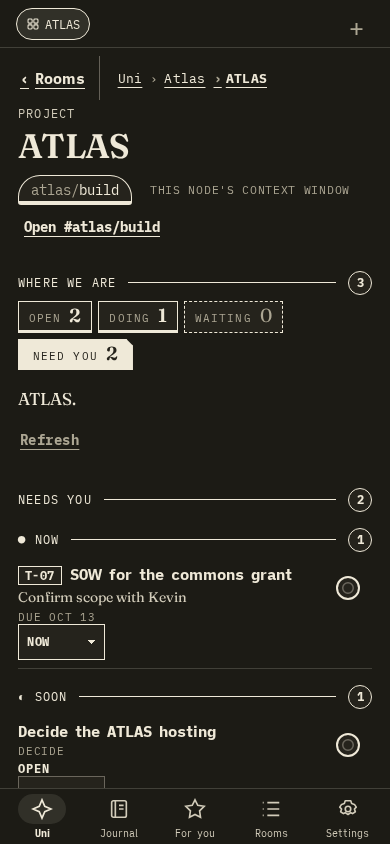
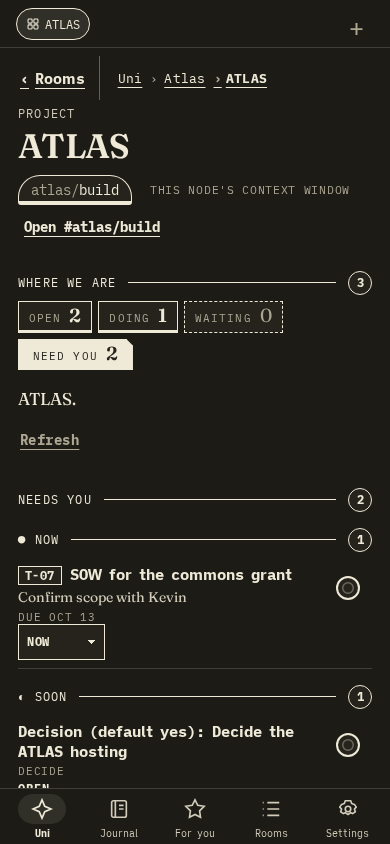
needs-you says the real ask (2 lines), All-of link sticks and stays on one line, teaching's needs from owner/waiting_on, one channel in the header, tooltips on the quiet marks (T-124 r4)

Changed region(s): [[0.0308, 0.8626, 0.7692, 0.9242]]

diff --git a/src/areas/Companion.tsx b/src/areas/Companion.tsx
@@ -4,7 +4,7 @@
 import { useEffect, useState } from "react";
 import { cleanText } from "../interface/contract";
 import { dueText } from "./NodeWork";
-import { activeProfile } from "./profile";
+import { isMe } from "./taskCore";
 import type { Run } from "./steerCore";
 import type { Task } from "./taskCore";
 import { splitTitle } from "./whereCore";
@@ -42,10 +42,13 @@ const URL_RE = /https?:\/\/\S+|\bwww\.\S+/g;
 export const plainDetail = (s: string): string => s.replace(URL_RE, "").replace(/\s+/g, " ").replace(/\s*[·,;:(\[-]+\s*$/, "").replace(/\(\s*\)/g, "").trim();
 type Fold = { open: boolean; onToggle: (v: boolean) => void };
 
+/** The ask itself: the "Decision (default yes):" style label a decision's title carries is left to the opened item. */
+export const askOf = (rest: string): string => { const t = plainDetail(rest) || rest; return t.replace(/^decision\s*(\([^)]*\))?\s*[:\-–—]\s*/i, "").trim() || t; };
+
 /** What Aaron does with it: a decision is decided, a task waiting on him says so, else its next step. */
 function actionOf(t: Task): string | null {
   if (t.kind === "decision") return null;
-  if (t.waitingOn === activeProfile().me) return t.next ? `Waiting on you · ${t.next}` : "Waiting on you";
+  if (isMe(t.waitingOn)) return t.next ? `Waiting on you · ${t.next}` : "Waiting on you";
   return t.next || null;
 }
 
@@ -56,13 +59,14 @@ function Body({ stands, ready, needs, runs, nodeName, onTask, onDecide, onEveryt
     {needs.length > 0 && <section aria-label="Needs you" className="cp-sec">
       <h3 className="cp-h">Needs you</h3>
       <ul className="cp-list">{needs.map((t) => {
-        const { id, rest } = splitTitle(cleanText(t.title));
+        const { id, rest: full } = splitTitle(cleanText(t.title));
+        const rest = askOf(full);
         const meta = plainDetail([actionOf(t), dueText(t.due)].filter(Boolean).join(" · "));
         const opts = t.kind === "decision" ? t.options : [];
         return <li key={t.id} className="cp-item">
           <button type="button" className="cp-need" data-id={id ?? undefined} onClick={() => onTask(t)}>
-            <span className="cp-title">{plainDetail(rest) || rest}</span>{meta && <small className="cp-detail">{meta}</small>}</button>
-          {t.kind === "decision" && <div className="cp-opts" role="group" aria-label={`Decide: ${plainDetail(rest) || rest}`}>
+            <span className="cp-title">{rest}</span>{meta && <small className="cp-detail">{meta}</small>}</button>
+          {t.kind === "decision" && <div className="cp-opts" role="group" aria-label={`Decide: ${rest}`}>
             {opts.slice(0, OPTS_SHOWN).map((o) => <button key={o} type="button" className="cp-opt" onClick={() => onDecide(t, o)}>{cleanText(o)}</button>)}
             {(opts.length > OPTS_SHOWN || opts.length === 0) && <button type="button" className="cp-opt more" onClick={() => onTask(t)}>{opts.length === 0 ? "Decide" : "More…"}</button>}
           </div>}
@@ -73,7 +77,7 @@ function Body({ stands, ready, needs, runs, nodeName, onTask, onDecide, onEveryt
       <h3 className="cp-h">Running</h3>
       <ul className="cp-list">{active.map((r) => <li key={r.id} className="cp-run" data-state={r.state}><i aria-hidden="true" /><span>{cleanText(r.what)}</span><small>{r.state}</small></li>)}</ul>
     </section>}
-    <button type="button" className="cp-all" onClick={onEverything}>All of {nodeName}'s work <span aria-hidden="true">→</span></button>
+    <div className="cp-foot"><button type="button" className="cp-all" onClick={onEverything}><span className="cp-all-t">All of {nodeName}'s work</span><span className="cp-all-arrow" aria-hidden="true">→</span></button></div>
   </div>;
 }
 
@@ -82,11 +86,11 @@ export function CompanionSide({ open, onToggle, ...p }: Props & Fold) {
   return <aside className={`cp side ${open ? "open" : "folded"}`} aria-label="Where this stands">
     {open
       ? <>
-        <button type="button" className="cp-top" aria-expanded="true" aria-label="Hide where this stands" onClick={() => onToggle(false)}><span>Where this stands</span><span className="cp-fold" aria-hidden="true">›</span></button>
+        <button type="button" className="cp-top" aria-expanded="true" aria-label="Hide where this stands" title="Hide where this stands" onClick={() => onToggle(false)}><span>Where this stands</span><span className="cp-fold" aria-hidden="true">›</span></button>
         <Body {...p} />
       </>
-      : <button type="button" className="cp-unfold" aria-expanded="false" aria-label="Show where this stands" onClick={() => onToggle(true)}>
-        <span aria-hidden="true">‹</span>{p.needs.length > 0 && <i className="cp-dot" aria-label="Needs you" />}</button>}
+      : <button type="button" className="cp-unfold" aria-expanded="false" aria-label="Show where this stands" title="Show where this stands" onClick={() => onToggle(true)}>
+        <span aria-hidden="true">‹</span>{p.needs.length > 0 && <i className="cp-dot" role="img" aria-label="Needs you" title="Needs you" />}</button>}
   </aside>;
 }
 
@@ -95,7 +99,7 @@ export function CompanionStrip({ open, onToggle, ...p }: Props & Fold) {
   return <section className={`cp strip ${open ? "open" : ""}`} aria-label="Where this stands">
     <button type="button" className="cp-line" aria-expanded={open} onClick={() => onToggle(!open)}>
       <span className="cp-line-text">{open ? "Where this stands" : p.ready ? p.stands?.text ?? "Where this stands" : "Loading…"}</span>
-      {p.needs.length > 0 && <i className="cp-dot" aria-label="Needs you" />}
+      {p.needs.length > 0 && <i className="cp-dot" role="img" aria-label="Needs you" title="Needs you" />}
       <span className="cp-chev" aria-hidden="true">{open ? "⌃" : "⌄"}</span>
     </button>
     {open && <Body {...p} />}

diff --git a/scripts/browser/simple.spec.ts b/scripts/browser/simple.spec.ts
@@ -154,11 +154,14 @@ test.describe('simple', () => {
     const items = page.locator('.cp-body .cp-item');
     await expect(items).toHaveCount(3);
     await expect(page.locator('.cp-body')).not.toContainText(/https?:\/\//);
-    for (const sel of ['.cp-title', '.cp-detail']) for (const el of await page.locator(`.cp-body ${sel}`).all()) {
+    for (const el of await page.locator('.cp-body .cp-title').all()) expect(await el.evaluate((e) => e.getBoundingClientRect().height < 48)).toBeTruthy();
+    for (const el of await page.locator('.cp-body .cp-detail').all()) {
       expect(await el.evaluate((e) => getComputedStyle(e).whiteSpace === 'nowrap' && e.getBoundingClientRect().height < 24)).toBeTruthy();
     }
-    const all = await page.getByRole('button', { name: /^All of .*'s work/ }).boundingBox();
+    const link = page.getByRole('button', { name: /^All of .*'s work/ });
+    const all = await link.boundingBox();
     expect(all!.y + all!.height).toBeLessThanOrEqual(720);
+    expect(all!.height).toBeLessThan(48);
     await page.screenshot({ path: `${SHOTS}/fold-1280x720.png` }).catch(() => {});
   });
 
@@ -167,9 +170,61 @@ test.describe('simple', () => {
     await openRoom(page, 'ATLAS');
     await openCompanion(page);
     const item = page.locator('.cp-item').filter({ hasText: 'Decide the ATLAS hosting' });
-    await expect(item.locator('.cp-title')).toHaveCSS('white-space', 'nowrap');
+    await expect(item.locator('.cp-title')).toHaveText('Decide the ATLAS hosting');
+    expect(await item.locator('.cp-title').evaluate((e) => parseInt(getComputedStyle(e).webkitLineClamp || getComputedStyle(e).getPropertyValue('line-clamp') || '0'))).toBe(2);
     await expect(item.locator('.cp-opt')).toHaveText(['Self-host', 'Managed']);
     for (const b of await item.locator('.cp-opt').all()) expect(await b.evaluate((e) => getComputedStyle(e).backgroundColor)).not.toBe('rgba(0, 0, 0, 0)');
+  });
+
+  test('the "All of X\'s work" link sticks to the panel bottom, on one line, even when the panel is long and the name is long', async ({ page }) => {
+    test.skip(!wide(page), 'side panel');
+    await page.setViewportSize({ width: 1280, height: 600 });
+    await boot(page);
+    await scope(page).locator('.th-go[aria-label^="Uni,"]').click();
+    await openCompanion(page);
+    const foot = page.locator('.cp-all');
+    const side = (await page.locator('.cp.side').boundingBox())!;
+    const box = (await foot.boundingBox())!;
+    expect(box.y + box.height).toBeLessThanOrEqual(side.y + side.height + 1);
+    expect(box.height).toBeLessThan(48);
+    await page.locator('.cp-all-t').evaluate((e) => { e.textContent = "All of A very long project name that cannot possibly fit on a single line's work"; });
+    const after = (await foot.boundingBox())!;
+    expect(after.height).toBeLessThan(48);
+    expect(await page.locator('.cp-all-arrow').isVisible()).toBe(true);
+    const arrow = (await page.locator('.cp-all-arrow').boundingBox())!;
+    expect(arrow.x + arrow.width).toBeLessThanOrEqual(side.x + side.width);
+  });
+
+  test('the quiet marks say what they are', async ({ page }) => {
+    await boot(page);
+    await openRoom(page, 'ATLAS');
+    if (wide(page)) {
+      await expect(page.getByRole('button', { name: 'Hide where this stands' })).toHaveAttribute('title', 'Hide where this stands');
+      await page.getByRole('button', { name: 'Hide where this stands' }).click();
+      await expect(page.getByRole('button', { name: 'Show where this stands' })).toHaveAttribute('title', 'Show where this stands');
+      await expect(page.locator('.cp-unfold .cp-dot')).toHaveAttribute('title', 'Needs you');
+    } else await expect(page.locator('.cp-line .cp-dot')).toHaveAttribute('title', 'Needs you');
+    if (wide(page)) await expect(scope(page).locator('.th-dot').first()).toHaveAttribute('title', 'Needs you');
+  });
+
+  test('a decision titled "Decision (default yes): …" shows only the ask; the opened item keeps the full title', async ({ page }) => {
+    await boot(page);
+    await openRoom(page, 'ATLAS');
+    await openCompanion(page);
+    await expect(page.locator('.cp-body')).not.toContainText(/Decision \(/);
+    await page.locator('.cp-item').filter({ hasText: 'Decide the ATLAS hosting' }).locator('.cp-need').click();
+    await expect(page.getByRole('dialog').or(page.locator('.sheet, .task-sheet')).first()).toContainText('Decision (default yes)');
+  });
+
+  test('teaching lists what waits on the user: a room task waiting on them, and their own; not what waits on someone else', async ({ page }) => {
+    await boot(page);
+    await openRoom(page, 'Learn Vibe Build');
+    await openCompanion(page);
+    const needs = page.getByRole('region', { name: 'Needs you' });
+    await expect(needs.locator('.cp-item')).toHaveCount(2);
+    await expect(needs).toContainText('Canvas Week 7 brief draft');
+    await expect(needs).toContainText('Grade the Week 6 reflections');
+    await expect(needs).not.toContainText('Final brief');
   });
 
   test('the "where this stands" row folds and unfolds the panel', async ({ page }) => {
@@ -201,7 +256,7 @@ test.describe('simple', () => {
 
   test('a room with nothing owed to the user shows no empty "Needs you" heading', async ({ page }) => {
     await boot(page);
-    await openRoom(page, 'Learn Vibe Build');
+    await openRoom(page, 'Atlas Institute');
     await openCompanion(page);
     await expect(page.locator('.cp-h', { hasText: 'Needs you' })).toHaveCount(0);
     await expect(page.locator('.cp-sec')).not.toHaveCount(-1);

diff --git a/src/areas/tree.css b/src/areas/tree.css
@@ -343,7 +343,9 @@ h3.wr-h { font-weight: 400; }
 .sr-titles { min-width: 0; display: flex; flex-direction: column; gap: 1px; }
 .sr-title { margin: 0; font: 600 26px/1.15 var(--th-serif); letter-spacing: -.015em; color: var(--text); overflow: hidden; text-overflow: ellipsis; white-space: nowrap; }
 .th-simple.phone .sr-title { font-size: 22px; }
-.sr-door { margin: 0; font: 400 13px/1.3 var(--th-sans); color: var(--th-mute); }
+.sr-meta { min-width: 0; display: flex; align-items: center; gap: 10px; min-height: 24px; }
+.sr-door { flex: none; margin: 0; font: 400 12.5px/1.3 var(--th-sans); color: var(--th-mute); }
+.sr-meta .th-crumbs + .sr-door::before { content: "·"; margin-right: 10px; }
 .sr-back { all: unset; box-sizing: border-box; flex: none; width: 44px; height: 44px; display: grid; place-items: center; font: 400 30px/1 var(--th-sans); cursor: pointer; color: var(--th-ink); }
 .sr-back:focus-visible { outline: 2px solid var(--th-ink); outline-offset: -4px; }
 .sr .th-crumbs { font: 400 12.5px var(--th-sans); letter-spacing: 0; color: var(--th-mute); }
@@ -358,8 +360,8 @@ h3.wr-h { font-weight: 400; }
 
 /* the companion */
 .cp { color: var(--th-ink); font-family: var(--th-sans); }
-.cp.side { min-width: 0; min-height: 0; overflow-y: auto; overscroll-behavior: contain; border-left: 1px solid var(--th-hair2); background: var(--th-paper); padding: 0 18px 40px; scroll-padding-bottom: 40px; }
-.cp.side.open { -webkit-mask-image: linear-gradient(to bottom, #000 calc(100% - 28px), transparent); mask-image: linear-gradient(to bottom, #000 calc(100% - 28px), transparent); }
+.cp.side { min-width: 0; min-height: 0; overflow-y: auto; overscroll-behavior: contain; border-left: 1px solid var(--th-hair2); background: var(--th-paper); padding: 0 18px; display: flex; flex-direction: column; }
+.cp.side.open > .cp-body { flex: 1; display: flex; flex-direction: column; }
 .cp.side.folded { padding: 0; }
 .cp-top { all: unset; box-sizing: border-box; width: 100%; cursor: pointer; display: flex; align-items: center; justify-content: space-between; min-height: 56px; font: 500 13px var(--th-sans); color: var(--th-mute); }
 .cp-fold, .cp-unfold { all: unset; box-sizing: border-box; display: grid; place-items: center; width: 40px; height: 40px; font: 400 24px/1 var(--th-sans); cursor: pointer; color: var(--th-ink2); border-radius: 50%; }
@@ -374,7 +376,7 @@ h3.wr-h { font-weight: 400; }
 .cp-list { list-style: none; margin: 0; padding: 0; }
 .cp-need { all: unset; box-sizing: border-box; width: 100%; min-width: 0; min-height: 44px; display: flex; flex-direction: column; justify-content: center; gap: 1px; padding: 8px 0; border-bottom: 1px solid var(--th-hair2); cursor: pointer; }
 .cp-need:hover .cp-title { text-decoration: underline; text-underline-offset: 3px; text-decoration-thickness: 1px; }
-.cp-title { font: 500 15px/1.35 var(--th-sans); overflow: hidden; text-overflow: ellipsis; white-space: nowrap; }
+.cp-title { font: 500 15px/1.35 var(--th-sans); overflow: hidden; display: -webkit-box; -webkit-box-orient: vertical; -webkit-line-clamp: 2; line-clamp: 2; overflow-wrap: anywhere; }
 .cp-need small { overflow: hidden; text-overflow: ellipsis; white-space: nowrap; font: 400 12.5px var(--th-sans); color: var(--th-mute); }
 .cp-ago { display: block; margin-top: 4px; font: 400 12.5px var(--th-sans); color: var(--th-mute); letter-spacing: 0; }
 .cp-item { border-bottom: 1px solid var(--th-hair2); }
@@ -389,7 +391,10 @@ h3.wr-h { font-weight: 400; }
 .cp-run i { flex: none; width: 8px; height: 8px; border-radius: 50%; background: var(--th-ink); align-self: center; }
 .cp-run[data-state="queued"] i { background: none; box-shadow: inset 0 0 0 1.5px var(--th-ink); }
 .cp-run small { margin-left: auto; font: 400 12.5px var(--th-sans); color: var(--th-mute); }
-.cp-all { all: unset; box-sizing: border-box; margin-top: 12px; min-height: 40px; display: inline-flex; align-items: center; gap: 6px; font: 500 14.5px var(--th-sans); color: var(--th-ink); cursor: pointer; text-decoration: underline; text-underline-offset: 4px; text-decoration-thickness: 1px; }
+.cp-foot { position: sticky; bottom: 0; margin-top: auto; padding-top: 22px; padding-bottom: 12px; background: linear-gradient(to bottom, transparent, var(--th-paper) 18px); }
+.cp-all { all: unset; box-sizing: border-box; max-width: 100%; min-height: 40px; display: flex; align-items: center; gap: 6px; font: 500 14.5px var(--th-sans); color: var(--th-ink); cursor: pointer; }
+.cp-all-t { min-width: 0; overflow: hidden; text-overflow: ellipsis; white-space: nowrap; text-decoration: underline; text-underline-offset: 4px; text-decoration-thickness: 1px; }
+.cp-all-arrow { flex: none; }
 /* the phone's strip */
 .cp.strip { flex: none; border-top: 1px solid var(--th-hair2); border-bottom: 1px solid var(--th-hair2); background: var(--th-paper); max-height: 62vh; overflow-y: auto; }
 .cp-line { all: unset; box-sizing: border-box; width: 100%; min-height: 46px; display: flex; align-items: center; gap: 10px; padding: 0 16px; cursor: pointer; }

diff --git a/scripts/browser/areasFixture.ts b/scripts/browser/areasFixture.ts
@@ -423,7 +423,10 @@ Two proposals wait on a scope decision.
         mk('st7', 'T-07 SOW for the commons grant', 'Projects/ATLAS', { due: '2026-10-13', priority: 'now', next: 'Confirm scope with Kevin' }),
         mk('st8', 'T-08 Fix the map labels', 'Projects/ATLAS', { owner: 'room:atlas/build', state: 'doing', next: 'Branch is up' }),
         mk('st9', 'T-09 Atlas Institute site copy', 'Projects/Atlas Institute', { owner: 'uni' }),
-        mk('dq2', 'Decide the ATLAS hosting', 'Projects/ATLAS', { priority: 'soon', options: ['Self-host', 'Managed'] }, 'decision'));
+        mk('st10', 'T-128 Canvas Week 7 brief draft', 'Projects/Learn Vibe Build', { owner: 'room:atlas/teach', state: 'waiting', waiting_on: 'aaron', next: 'Your OK on the draft', due: '2026-10-14' }),
+        mk('st11', 'T-120 Grade the Week 6 reflections', 'Projects/Learn Vibe Build', { owner: 'aaron', due: '2026-10-15' }),
+        mk('st12', 'T-121 Final brief', 'Projects/Learn Vibe Build', { owner: 'room:atlas/teach', state: 'waiting', waiting_on: 'external' }),
+        mk('dq2', 'Decision (default yes): Decide the ATLAS hosting', 'Projects/ATLAS', { priority: 'soon', options: ['Self-host', 'Managed'] }, 'decision'));
       const run = (id: string, what: string, meta: Record<string, unknown>) => ({ id, path: `Runs/${id}`, extension: 'md', tags: ['run'], createdAt: T0, updatedAt: T0, metadata: { node: 'Projects/ATLAS', what, by: 'room:atlas/build', started: new Date((d.now - 600) * 1000).toISOString(), updated: new Date((d.now - 60) * 1000).toISOString(), ...meta } });
       const draft = (id: string, meta: Record<string, unknown>) => ({ id, path: `Drafts/${id}`, extension: 'md', tags: ['draft'], createdAt: T0, updatedAt: T0, metadata: { node: 'Projects/ATLAS', ...meta } });
       // run-1 is the T-125 shape (summary, worker, started_at), the rest are the 0.1.44 ledger

diff --git a/src/areas/taskCore.ts b/src/areas/taskCore.ts
@@ -156,16 +156,19 @@ export const dayOf = (d: Date) => `${d.getFullYear()}-${String(d.getMonth() + 1)
 export const tomorrowOf = (now: Date) => dayOf(new Date(now.getFullYear(), now.getMonth(), now.getDate() + 1));
 export const snoozed = (t: Pick<Task, "snoozedUntil">, now: Date) => !!t.snoozedUntil && t.snoozedUntil > dayOf(now);
 
+/** Whether an `owner` / `waiting_on` field names the user: `aaron`, `Aaron`, `@aaron` or `person:aaron`. A field value only, never free text. */
+export const isMe = (v: string | null | undefined, p: VaultProfile = activeProfile()): boolean => !!v && v.trim().toLowerCase().replace(/^(person:|@)/, "") === p.me.toLowerCase();
+
 export type Group = "you" | "rooms" | "others";
 /** Aaron's own work and everything waiting on him; Uni and room work; other people. */
 export function groupOf(t: Pick<Task, "owner" | "waitingOn" | "kind">, p: VaultProfile = activeProfile()): Group {
-  if (t.kind === "decision" || t.owner === p.me || t.waitingOn === p.me) return "you";
+  if (t.kind === "decision" || isMe(t.owner, p) || isMe(t.waitingOn, p)) return "you";
   if (isAgentOwner(t.owner, p)) return "rooms";
   return "others";
 }
 export const GROUP_LABEL: Record<Group, string> = { you: "You", rooms: "Rooms", others: "Others" };
 
-const rank = (t: Task) => (t.waitingOn === activeProfile().me || t.kind === "decision" ? 0 : t.state === "doing" ? 1 : 2);
+const rank = (t: Task) => (isMe(t.waitingOn) || t.kind === "decision" ? 0 : t.state === "doing" ? 1 : 2);
 /** Waiting-on-you first, then in progress, then by due date (undated last), then title. */
 export function sortTasks(list: readonly Task[]): Task[] {
   return [...list].sort((a, b) => rank(a) - rank(b) || (a.due ?? "9999").localeCompare(b.due ?? "9999") || a.title.localeCompare(b.title));

diff --git a/src/areas/WhereWeAre.tsx b/src/areas/WhereWeAre.tsx
@@ -6,8 +6,7 @@ import { useState } from "react";
 import { cleanText } from "../interface/contract";
 import { agoLabel } from "./treeRooms";
 import { dueText } from "./NodeWork";
-import { activeProfile } from "./profile";
-import { PRIORITIES, PRIORITY_LABEL, priorityOf, type Priority, type Task } from "./taskCore";
+import { isMe, PRIORITIES, PRIORITY_LABEL, priorityOf, type Priority, type Task } from "./taskCore";
 import type { Where } from "./whereCore";
 import { splitTitle } from "./whereCore";
 import type { Mark } from "./steerCore";
@@ -29,7 +28,7 @@ function Row({ t, here, nodeName, leaving, marks, nowMs, onOpen, onAct, onPriori
   onOpen: (t: Task) => void; onAct: (t: Task, a: "done") => void; onPriority: (t: Task, p: Priority) => void;
 }) {
   const { id, rest } = splitTitle(cleanText(t.title));
-  const meta = [t.kind === "decision" ? "Decide" : null, t.waitingOn === activeProfile().me ? "Waiting on you" : t.state === "doing" ? "In progress" : t.state === "waiting" ? "Waiting" : null, dueText(t.due), t.node !== here ? nodeName(t.node) : null].filter(Boolean);
+  const meta = [t.kind === "decision" ? "Decide" : null, isMe(t.waitingOn) ? "Waiting on you" : t.state === "doing" ? "In progress" : t.state === "waiting" ? "Waiting" : null, dueText(t.due), t.node !== here ? nodeName(t.node) : null].filter(Boolean);
   return <li className={`wr-row ${leaving ? "leaving" : ""} ${marks?.length ? "changed" : ""}`} data-id={id ?? undefined}>
     <button type="button" className="wr-main" onClick={() => onOpen(t)}>
       <span className="wr-line">{id && <b className="wr-id">{id}</b>}<span className="wr-title">{rest}</span></span>

diff --git a/src/areas/NodeWork.tsx b/src/areas/NodeWork.tsx
@@ -2,7 +2,7 @@ import { useEffect, useRef, useState, type KeyboardEvent as ReactKeyboardEvent, 
 import { invoke } from "@tauri-apps/api/core";
 import { cleanText } from "../interface/contract";
 import type { RoomMessage } from "../interface/modules/chat";
-import { groupTasks, type Task } from "./taskCore";
+import { groupTasks, isMe, type Task } from "./taskCore";
 import type { RoomRef } from "./talkCore";
 import type { TaskAction, Undo } from "./useTasks";
 import { activeProfile, type VaultProfile } from "./profile";
@@ -127,7 +127,7 @@ export const dueText = (iso: string | null) => {
 };
 
 function Meta({ t, here, nodeName }: { t: Task; here: string; nodeName: (path: string) => string }) {
-  const parts = [t.kind === "decision" ? "Decide" : null, t.waitingOn === activeProfile().me ? "Waiting on you" : t.state === "doing" ? "In progress" : t.state === "waiting" ? "Waiting" : null, dueText(t.due), t.node !== here ? `in ${nodeName(t.node)}` : null].filter(Boolean);
+  const parts = [t.kind === "decision" ? "Decide" : null, isMe(t.waitingOn) ? "Waiting on you" : t.state === "doing" ? "In progress" : t.state === "waiting" ? "Waiting" : null, dueText(t.due), t.node !== here ? `in ${nodeName(t.node)}` : null].filter(Boolean);
   return parts.length ? <span className="task-meta">{parts.map((p, i) => <span key={i} className={p === "Decide" ? "task-decide" : ""}>{p}</span>)}</span> : null;
 }
 

diff --git a/scripts/profile.test.ts b/scripts/profile.test.ts
@@ -84,6 +84,9 @@ check("PR2: me / agentOwners / room prefix drive groups and sort", () => {
   assert.equal(groupOf({ owner: "aaron", waitingOn: null, kind: "task" }, d), "you");
   assert.equal(groupOf({ owner: "me", waitingOn: null, kind: "task" }, d), "others");
   assert.equal(groupOf({ owner: "room:x", waitingOn: null, kind: "task" }, d), "rooms");
+  assert.equal(groupOf({ owner: "room:atlas/teach", waitingOn: "Aaron", kind: "task" }, d), "you");
+  assert.equal(groupOf({ owner: "room:atlas/teach", waitingOn: "person:aaron", kind: "task" }, d), "you");
+  assert.equal(groupOf({ owner: "room:atlas/teach", waitingOn: "external", kind: "task" }, d), "rooms");
   assert.equal(groupOf({ owner: "me", waitingOn: null, kind: "task" }, p), "you");
   assert.equal(groupOf({ owner: "x", waitingOn: "me", kind: "task" }, p), "you");
   assert.equal(groupOf({ owner: "room:x", waitingOn: null, kind: "task" }, p), "others");

diff --git a/src/areas/AreasSurface.tsx b/src/areas/AreasSurface.tsx
@@ -291,9 +291,11 @@ export default function AreasSurface({ zoom, identity, talk, path, rooms: hostRo
     <header className="sr-head">
       {!wide && <button type="button" className="sr-back" onClick={() => (back ? back() : undefined)} aria-label="Back to rooms"><span aria-hidden="true">‹</span></button>}
       <div className="sr-titles">
-        {wide && !isRoot && <Crumbs trail={trailItems} onOpen={openPath} />}
+        {(doorText || (wide && !isRoot)) && <div className="sr-meta">
+          {wide && !isRoot && <Crumbs trail={trailItems} onOpen={openPath} />}
+          {doorText && <span className="sr-door">{doorText}</span>}
+        </div>}
         <h1 className="sr-title">{node.title}</h1>
-        {doorText && <p className="sr-door">{doorText}</p>}
       </div>
     </header>
     {!wide && <CompanionStrip {...companionProps} open={companionOpen} onToggle={setCompanionOpen} />}

diff --git a/src/areas/TreeHome.tsx b/src/areas/TreeHome.tsx
@@ -60,7 +60,7 @@ export function RoomTree({ chat = true, rows, needs, onOpen, selected }: {
       <button type="button" className="th-go" data-path={r.path} aria-current={selected === r.path ? "page" : undefined} onClick={() => onOpen(r.path)}
         aria-label={`${r.name}${chat ? `, ${sub ? `room ${sub}` : "no channel of its own"}` : ""}${n ? `, ${n} need${n === 1 ? "s" : ""} you` : ""}`}>
         <span className="th-name"><b>{r.name}</b>{sub && <small className="th-sub">{sub}</small>}</span>
-        {n > 0 && <i className="th-dot" aria-hidden="true" />}
+        {n > 0 && <i className="th-dot" title="Needs you" aria-hidden="true" />}
       </button>
     </li>;
   })}</ul></nav>;
